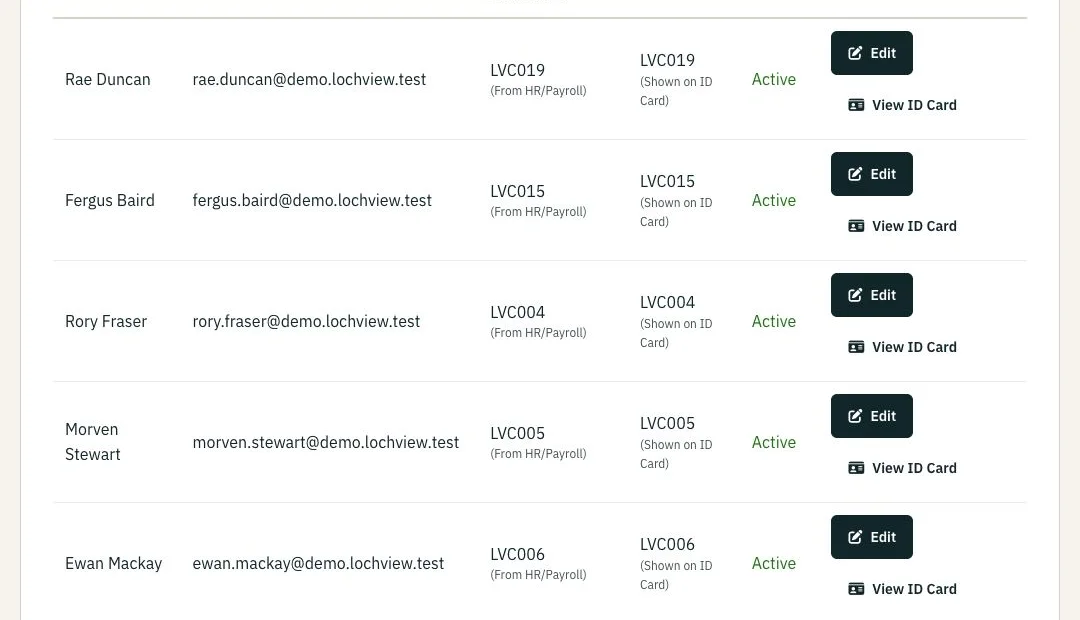
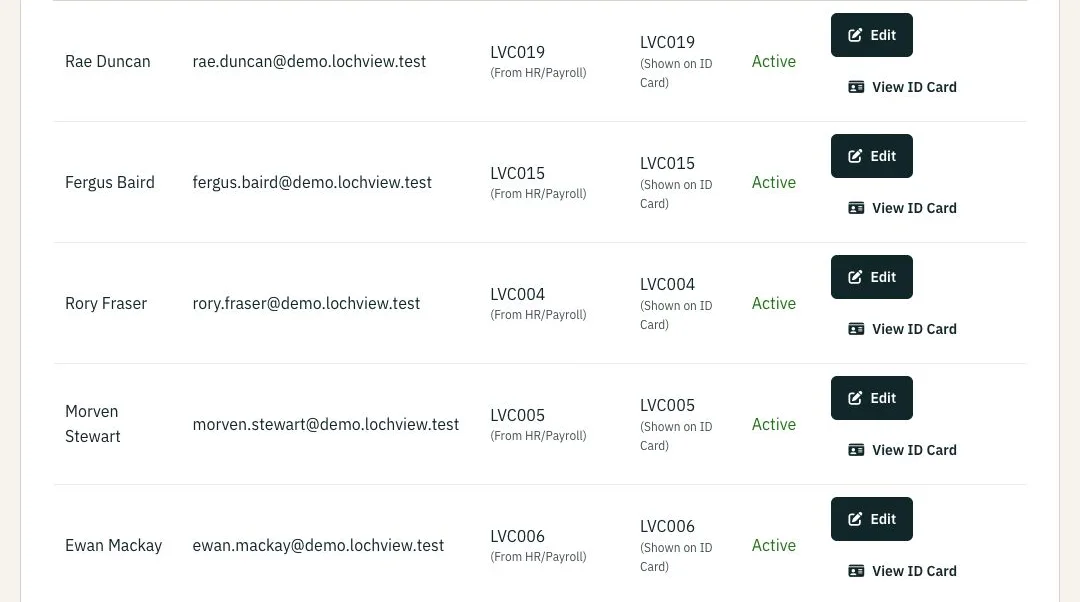
Employee screenshot crop

diff --git a/includes/home-public.php b/includes/home-public.php
@@ -123,7 +123,7 @@ $demo = defined('DEMO_MODE') && DEMO_MODE;
             </div>
             <div class="dh-shot">
                 <div class="dh-shot__bar" aria-hidden="true"><i></i><i></i><i></i></div>
-                <img src="<?php echo $img('people.webp'); ?>" width="1080" height="620" loading="lazy" alt="The employee list in the demonstration: names, email addresses, HR references, card references and a status of Active, with Edit and View ID card buttons.">
+                <img src="<?php echo $img('people.webp'); ?>" width="1080" height="602" loading="lazy" alt="The employee list in the demonstration: names, email addresses, HR references, card references and a status of Active, with Edit and View ID card buttons.">
             </div>
         </article>
 
